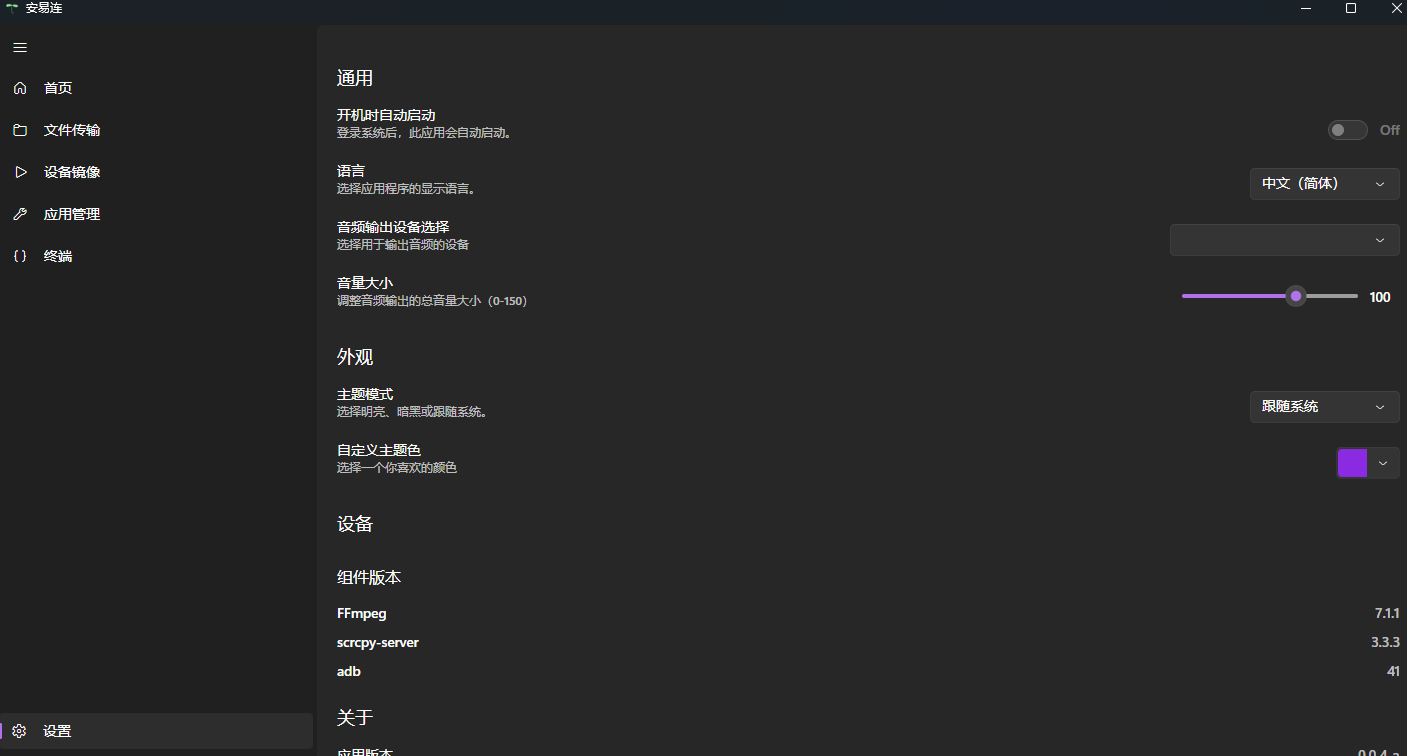
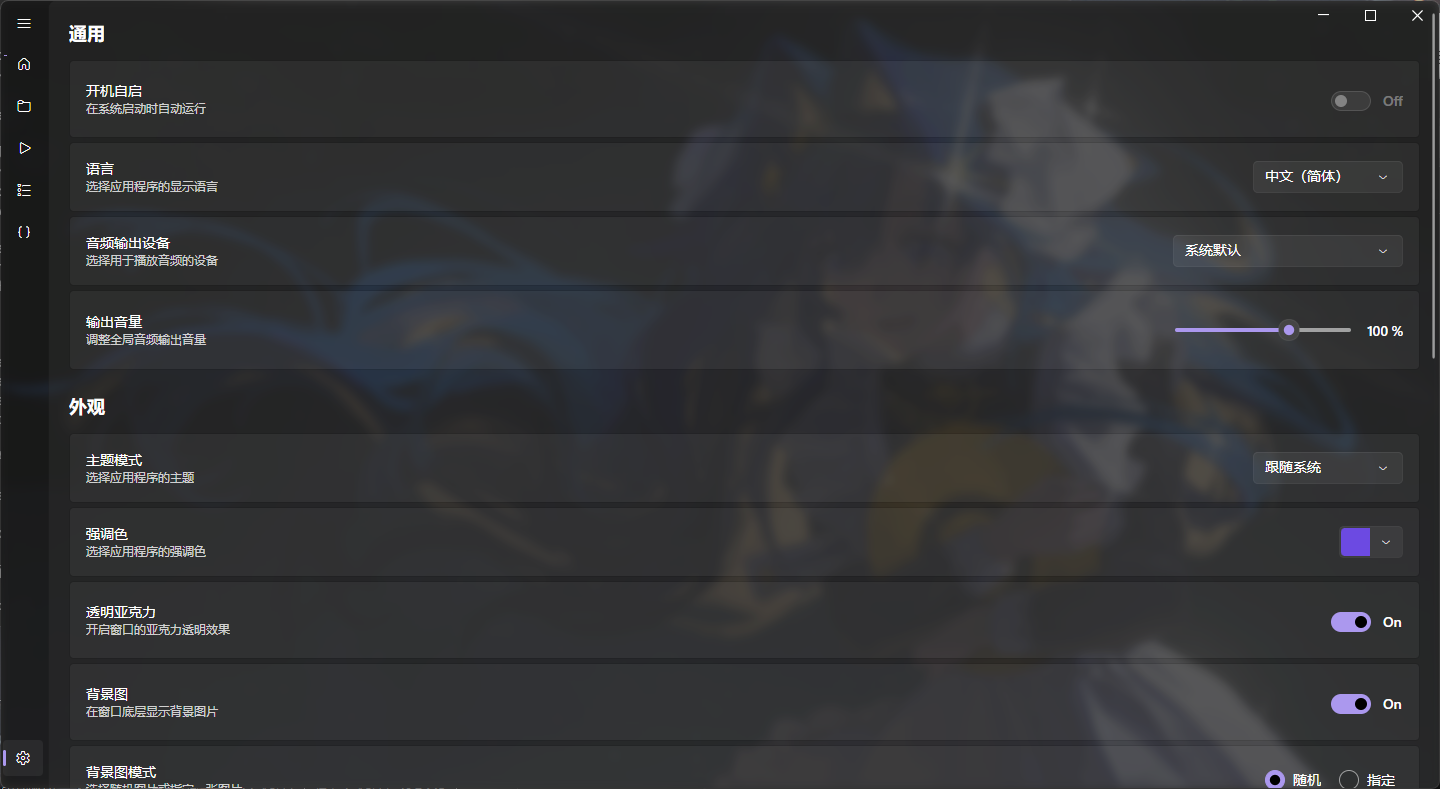
修复终端功能裁切发布和反射的不兼容

diff --git a/AYLink.Controls/Terminal/TerminalControl.cs b/AYLink.Controls/Terminal/TerminalControl.cs
@@ -97,19 +97,17 @@ public class TerminalControl : TemplatedControl
         if (_stylesLoaded || Application.Current == null)
             return;
 
-        var uri = new Uri("avares://AYLink.Controls/Terminal/Themes/Generic.axaml");
-
         // Check if styles are already loaded to avoid duplicates
         foreach (var style in Application.Current.Styles)
         {
-            if (style is global::Avalonia.Markup.Xaml.Styling.StyleInclude include && include.Source == uri)
+            if (style is Themes.Generic)
             {
                 _stylesLoaded = true;
                 return;
             }
         }
 
-        var styles = (IStyle)new global::Avalonia.Markup.Xaml.Styling.StyleInclude(uri) { Source = uri };
+        var styles = (IStyle)new Themes.Generic();
         Application.Current.Styles.Add(styles);
         _stylesLoaded = true;
     }

diff --git a/AYLink.Controls/Terminal/Themes/Generic.axaml.cs b/AYLink.Controls/Terminal/Themes/Generic.axaml.cs
@@ -1,0 +1,12 @@
+using Avalonia.Markup.Xaml;
+using Avalonia.Styling;
+
+namespace AYLink.Controls.Terminal.Themes;
+
+public partial class Generic : Styles
+{
+    public Generic()
+    {
+        AvaloniaXamlLoader.Load(this);
+    }
+}

diff --git a/docs/README.md b/docs/README.md
@@ -30,6 +30,7 @@
 ![alt text](screenshot/1.png)
 ![alt text](screenshot/2.png)
 ![alt text](screenshot/3.png)
+![alt text](screenshot/4.png)
 
 ### 自定义背景说明
 
